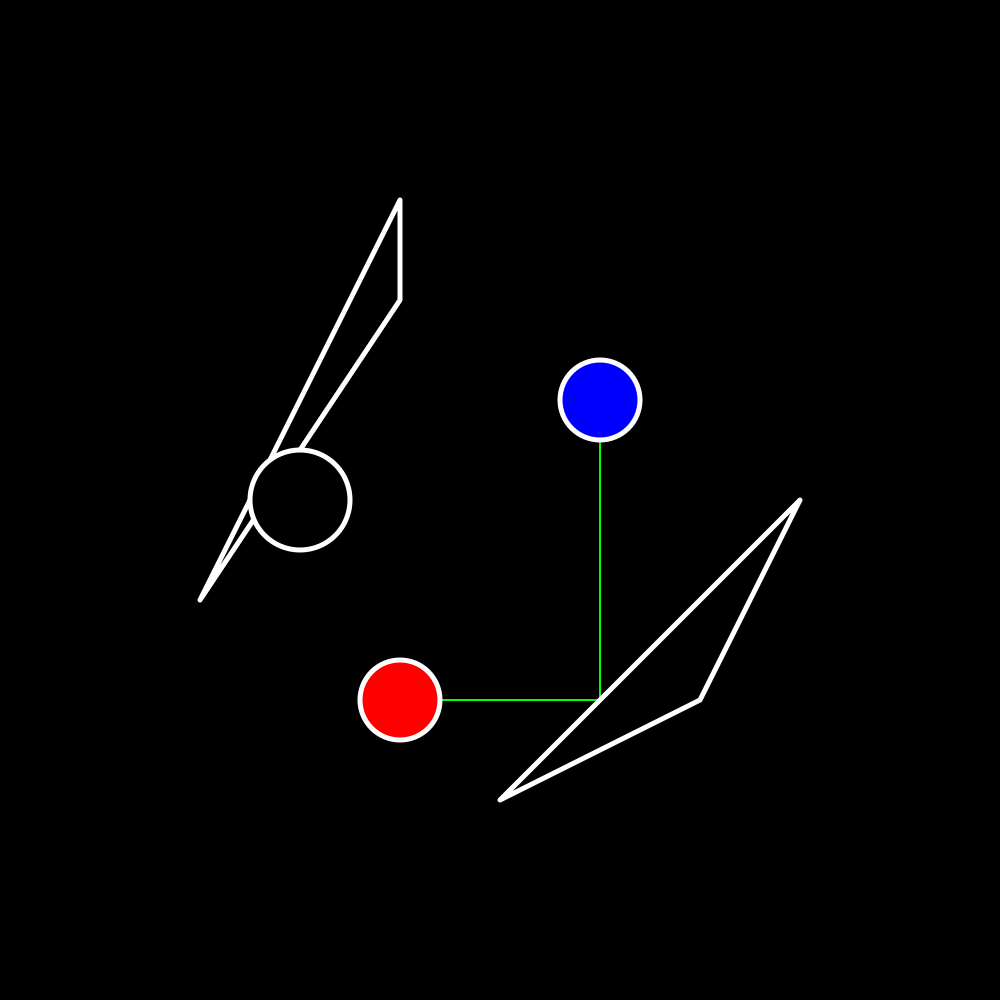
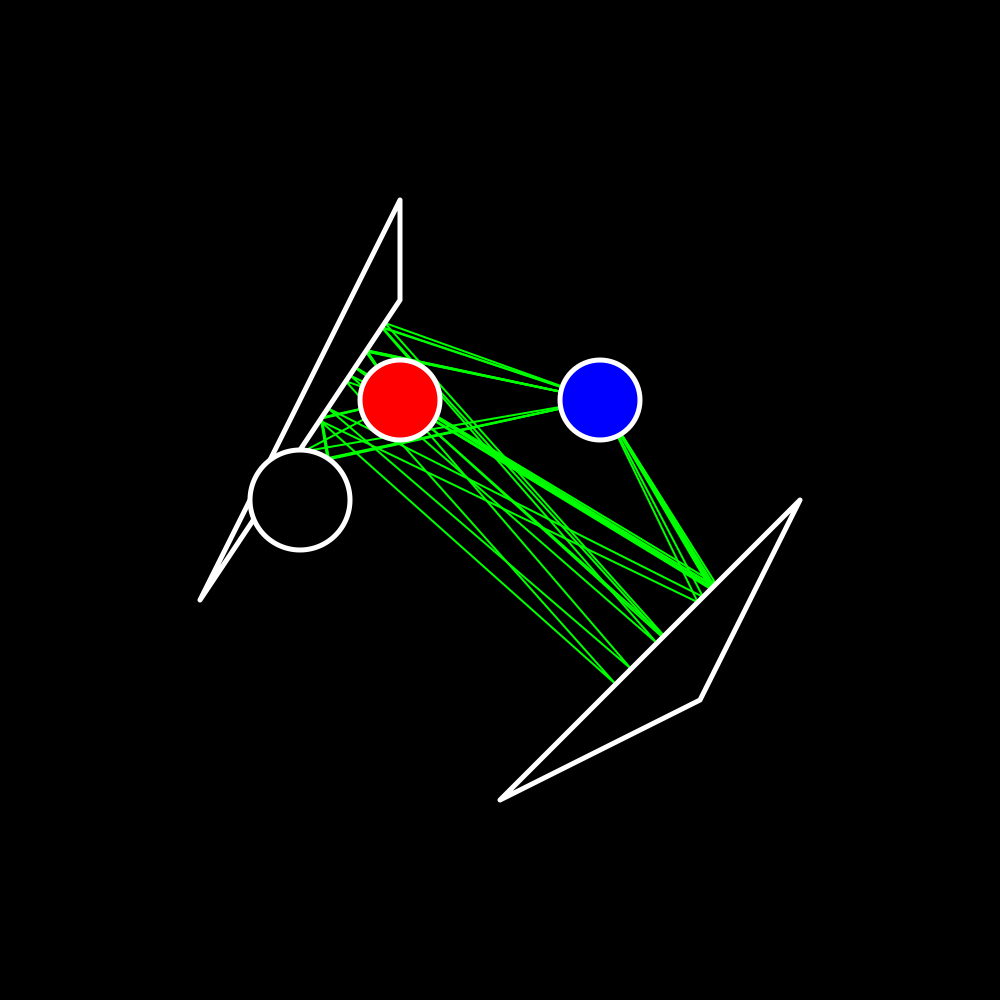
added iterable

Changed region(s): [[0.31, 0.31, 0.713, 0.682], [0.341, 0.651, 0.465, 0.744], [0.62, 0.434, 0.651, 0.496]]

diff --git a/main.py b/main.py
@@ -5,14 +5,14 @@ import cairo
 from multipatprop import System, Transmitter, Receiver, Interferer, Point
 
 
-transmitter = Transmitter(Point(4, 3))
+transmitter = Transmitter(Point(4, 6))
 receiver = Receiver(Point(6, 6))
 interferers = [Interferer([Point(7, 3), Point(8, 5), Point(5, 2)]),
                Interferer([Point(2, 4), Point(4, 7), Point(4, 8)]),
                Interferer.circle(Point(3, 5), 0.5, 100)]
 
 system = System(transmitter, receiver, interferers)
-paths = system.get_multipath(starting_number=50, receiver_diameter=0.1, max_reflections=30)
+multipath = system.get_multipath(starting_number=1000, receiver_diameter=0.1, max_reflections=30)
 
 camera_position = Point(5, 5)
 camera_zoom = 0.1
@@ -28,17 +28,12 @@ with cairo.ImageSurface(cairo.FORMAT_RGB24, 1000, 1000) as surface:
     context.set_source_rgb(0, 0, 0)
     context.rectangle(0, 0, 1, 1)
     context.fill()
-
-
-
     context.translate(0.5, 0.5)
     context.scale(1, -1)
     context.scale(camera_zoom, camera_zoom)
     context.translate(-camera_position.x, -camera_position.y)
 
-
-
-    for path in paths:
+    for path in multipath:
         for point in path:
             context.line_to(point.x, point.y)
         context.set_source_rgb(0, 1, 0)

diff --git a/multipatprop.py b/multipatprop.py
@@ -3,6 +3,7 @@
 from __future__ import annotations
 from math import tau, cos, sin, atan2, hypot
 from itertools import pairwise
+from typing import Iterable
 from euclid import Point2 as Point, Vector2 as Vector, Ray2 as Ray, LineSegment2 as Segment
 
 
@@ -137,6 +138,10 @@ class Multipath:
 
     def __init__(self, paths: list[Path]) -> None:
         self.paths = paths
+    
+    def __iter__(self) -> Iterable[Path]:
+        for path in self.paths:
+            yield path
 
 
 class Path:
@@ -152,3 +157,7 @@ class Path:
         self.attenuation = 0
         for p in range(len(points) - 2):
             self.attenuation *= 0.5
+
+    def __iter__(self) -> Iterable[Point]:
+        for point in self.points:
+            yield point
